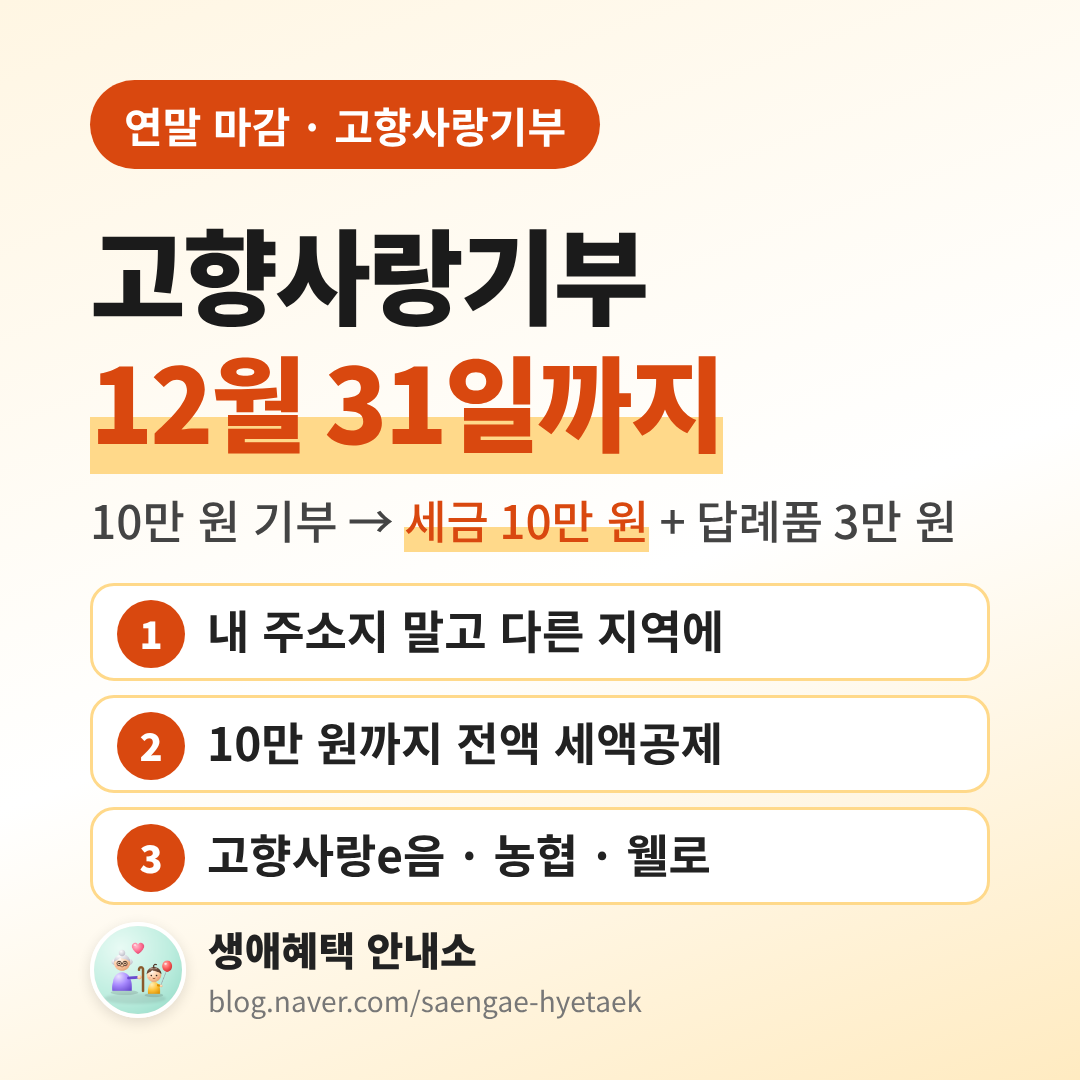
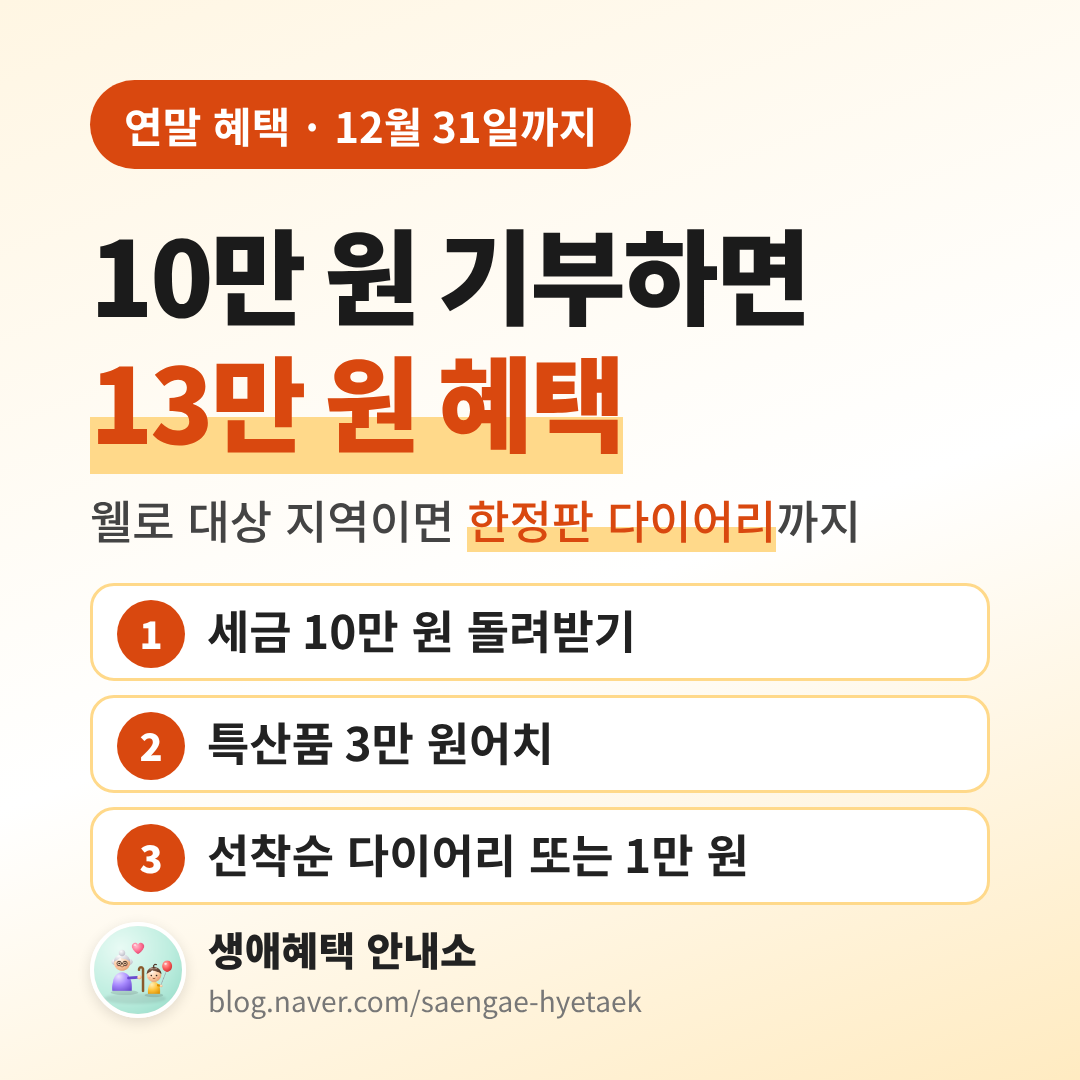
고향사랑기부 글: 받는 것 중심으로 다시 쓰기, 웰로 대상 지역 34곳 표 추가
Claude-Session: https://claude.ai/code/session_01Nk3GpNNQZnzWTp8rDB2GKq

diff --git a/blog/2026-11-24-고향사랑기부-연말정산-사진/원고-11-24-고향사랑기부-연말정산.html b/blog/2026-11-24-고향사랑기부-연말정산-사진/원고-11-24-고향사랑기부-연말정산.html
@@ -1,52 +1,66 @@
-<!DOCTYPE html><html lang="ko"><head><meta charset="utf-8"><title>고향사랑기부 연말정산 12월 31일까지, 10만 원 기부하면 얼마 돌려받나 (2026 세액공제·답례품·기부하는 곳)</title></head><body>
-<p id="t">고향사랑기부 연말정산 12월 31일까지, 10만 원 기부하면 얼마 돌려받나 (2026 세액공제·답례품·기부하는 곳)</p>
+<!DOCTYPE html><html lang="ko"><head><meta charset="utf-8"><title>고향사랑기부 10만 원 하면 13만 원 혜택에 한정판 다이어리까지? 연말 받을 것 총정리 (12월 31일까지)</title></head><body>
+<p id="t">고향사랑기부 10만 원 하면 13만 원 혜택에 한정판 다이어리까지? 연말 받을 것 총정리 (12월 31일까지)</p>
 <div id="a">
 <p style="font-size:16px;line-height:1.9;margin:0 0 12px;text-align:left">※ 이 글의 추천 링크를 통해 기부하면 작성자에게 웰로 파트너스 수익이 지급될 수 있습니다.</p>
-<p>[ 사진 넣는 자리 · 01-고향사랑기부-연말정산-12월-31일까지.webp ]</p>
-<p style="font-size:16px;line-height:1.9;margin:0 0 12px;text-align:left">안녕하세요, 생애혜택 안내인입니다. 고향사랑기부는 내가 사는 곳이 아닌 다른 지역에 기부하고, 연말정산 때 세금을 돌려받고, 그 지역 특산품까지 받는 제도예요. 10만 원을 기부하면 세금 10만 원을 그대로 돌려받고, 3만 원어치 답례품을 받을 수 있어요. 작년 정부 안내처럼 12월 31일까지 기부한 금액이 그해 연말정산에 들어가요. (2026년 11월 23일 정책브리핑 기준으로 확인했어요)</p>
+<p>[ 사진 넣는 자리 · 01-고향사랑기부-10만원-13만원-혜택-한정판-다이어리.webp ]</p>
+<p style="font-size:16px;line-height:1.9;margin:0 0 12px;text-align:left">안녕하세요, 생애혜택 안내인입니다. 연말에 10만 원으로 챙길 수 있는 게 생각보다 많아요. 고향사랑기부를 하면 세금 10만 원을 그대로 돌려받고, 3만 원어치 지역 특산품을 받고, 지금은 웰로에서 대상 지역에 기부하면 2027년 한정판 다이어리나 웰포인트 1만 원까지 하나 더 받을 수 있어요. 올해 연말정산에 넣으려면 12월 안에 끝내야 해요. (2026년 11월 23일, 정책브리핑과 웰로 안내로 확인했어요)</p>
 <p><br></p>
-<p style="font-size:16px;line-height:1.9;margin:0 0 12px;text-align:left"><b style="font-size:18px;color:#D9480F">✅ 한눈에 정리</b></p>
-<p style="font-size:16px;line-height:1.9;margin:0 0 12px;text-align:left">· 내 주소지가 아닌 지역에 기부하면 돼요</p>
-<p style="font-size:16px;line-height:1.9;margin:0 0 12px;text-align:left">· 10만 원까지는 기부한 돈 전액을 세금에서 빼 줘요</p>
-<p style="font-size:16px;line-height:1.9;margin:0 0 12px;text-align:left">· 2026년 1월 1일부터 10만 원 넘고 20만 원까지의 부분은 44%를 돌려받아요 (16.5%에서 올랐어요)</p>
-<p style="font-size:16px;line-height:1.9;margin:0 0 12px;text-align:left">· 답례품은 기부금의 30% 이내 — 10만 원이면 3만 원어치</p>
-<p style="font-size:16px;line-height:1.9;margin:0 0 12px;text-align:left">· 기부하는 곳: 고향사랑e음, 농협은행 지점, 웰로 같은 민간 플랫폼</p>
+<p style="font-size:16px;line-height:1.9;margin:0 0 12px;text-align:left"><b style="font-size:19px;color:#D9480F">✅ 한눈에 정리 — 10만 원 기부하면 받는 것</b></p>
+<p style="font-size:16px;line-height:1.9;margin:0 0 12px;text-align:left">· ① 세금 10만 원 돌려받기 (연말정산 세액공제, 10만 원까지 전액)</p>
+<p style="font-size:16px;line-height:1.9;margin:0 0 12px;text-align:left">· ② 지역 특산품 3만 원어치 (답례품, 기부금의 30% 이내)</p>
+<p style="font-size:16px;line-height:1.9;margin:0 0 12px;text-align:left">· ③ 웰로 대상 34개 지역이면 한정판 다이어리 또는 웰포인트 1만 원 (선착순, 다 나가면 끝)</p>
+<p style="font-size:16px;line-height:1.9;margin:0 0 12px;text-align:left">· 조건은 하나: 내가 사는 곳이 아닌 지역에 기부하기</p>
+<p style="font-size:16px;line-height:1.9;margin:0 0 12px;text-align:left">· 12월 31일까지 기부한 금액이 그해 연말정산에 들어가요 (작년 정부 안내 기준)</p>
 <hr>
 <p><br></p>
-<p style="font-size:16px;line-height:1.9;margin:0 0 12px;text-align:left"><b style="font-size:19px;color:#D9480F">📌 고향사랑기부, 누가 어디에 하나요?</b></p>
-<p>[ 사진 넣는 자리 · 02-고향사랑기부-대상과-기본-규칙.webp ]</p>
-<p style="font-size:16px;line-height:1.9;margin:0 0 12px;text-align:left">내가 지금 사는 지역에는 기부할 수 없고, 그 밖의 지역 가운데 골라서 할 수 있어요. 개인은 1년에 2천만 원까지 기부할 수 있고(2025년 기준), 기부한 돈은 국세청 홈택스에 자동으로 올라가서 연말정산 때 따로 영수증을 챙기지 않아도 돼요.</p>
+<p style="font-size:16px;line-height:1.9;margin:0 0 12px;text-align:left"><b style="font-size:19px;color:#D9480F">💰 받는 것 ①② 세금 돌려받고, 특산품도 받고</b></p>
+<p>[ 사진 넣는 자리 · 02-고향사랑기부-금액별-세액공제와-답례품.webp ]</p>
+<p style="font-size:16px;line-height:1.9;margin:0 0 12px;text-align:left">10만 원을 기부하면 연말정산 때 세금 10만 원이 줄어요. 거기에 그 지역 특산품 3만 원어치를 답례품으로 받아요. 정부가 &quot;10만 원 기부하면 13만 원 혜택&quot;이라고 소개하는 이유예요.</p>
+<p style="font-size:16px;line-height:1.9;margin:0 0 12px;text-align:left">20만 원이면 더 받아요. 앞의 10만 원은 전액, 뒤의 10만 원은 44%를 돌려받아 세금이 14만 4천 원 줄고, 답례품은 6만 원어치까지 고를 수 있어요. 이 44%는 2026년 1월 1일부터 16.5%에서 올라간 기준이에요(행정안전부). 단, 올해 낼 세금(결정세액)이 없으면 세액공제를 받을 수 없고 다음 해로 넘어가지도 않아요(웰로 안내).</p>
 <hr>
 <p><br></p>
-<p style="font-size:16px;line-height:1.9;margin:0 0 12px;text-align:left"><b style="font-size:19px;color:#D9480F">💰 얼마 돌려받나요? (2026년)</b></p>
-<p>[ 사진 넣는 자리 · 03-고향사랑기부-금액별-세액공제와-답례품.webp ]</p>
-<p style="font-size:16px;line-height:1.9;margin:0 0 12px;text-align:left">나라면 얼마나 돌려받을지 예로 볼게요. 10만 원을 기부하면 연말정산 때 세금 10만 원이 줄고, 3만 원어치 답례품을 받아요. 그래서 &quot;10만 원 내고 13만 원 혜택&quot;이라고 해요.</p>
-<p style="font-size:16px;line-height:1.9;margin:0 0 12px;text-align:left">20만 원을 기부하면 앞의 10만 원은 전액, 뒤의 10만 원은 44%인 4만 4천 원을 돌려받아요. 이 44%는 2026년 1월 1일부터 바뀐 기준이에요(행정안전부 &#x27;2026년 달라지는 제도&#x27;). 세금 14만 4천 원이 줄고 답례품은 6만 원어치까지예요. 20만 원이 넘는 부분의 비율은 이 글에서 다루지 않았어요.</p>
+<p style="font-size:16px;line-height:1.9;margin:0 0 12px;text-align:left"><b style="font-size:19px;color:#D9480F">🎁 받는 것 ③ 웰로 연말 한정 선물 (지금 진행 중)</b></p>
+<p>[ 사진 넣는 자리 · 03-웰로-고향사랑기부-연말-한정-선물-조건.webp ]</p>
+<p style="font-size:16px;line-height:1.9;margin:0 0 12px;text-align:left">웰로에서 아래 34개 대상 지역 가운데 한 곳에 10만 원 이상 기부하면, 2027년 한정판 다이어리(2만 원 상당)나 웰포인트 1만 원 중 하나를 더 받을 수 있어요. 11월 2일에 시작했고 정해진 수량이 다 나가면 끝나는 선착순이에요.</p>
+<p style="font-size:16px;line-height:1.9;margin:0 0 12px;text-align:left">친구 초대도 있어요. 초대받은 친구가 7일 안에 10만 원을 기부하면 두 사람 모두 웰포인트 1천 원씩 받아요. 웰포인트는 네이버페이·편의점·다이소 쿠폰 등으로 바꿔 쓸 수 있어요(웰로 안내).</p>
 <hr>
 <p><br></p>
-<p style="font-size:16px;line-height:1.9;margin:0 0 12px;text-align:left"><b style="font-size:19px;color:#D9480F">📝 어디서 기부하나요?</b></p>
-<p>[ 사진 넣는 자리 · 04-고향사랑기부-하는-곳-3가지.webp ]</p>
-<p style="font-size:16px;line-height:1.9;margin:0 0 12px;text-align:left">① 정부 누리집 &#x27;고향사랑e음&#x27;에서 간편인증으로 로그인 → 지역 고르기 → 금액 입력 → 답례품 고르기 순서로 해요.</p>
-<p style="font-size:16px;line-height:1.9;margin:0 0 12px;text-align:left">② 인터넷이 어려우신 부모님은 가까운 농협은행 지점에 가서 할 수 있어요.</p>
-<p style="font-size:16px;line-height:1.9;margin:0 0 12px;text-align:left">③ 웰로 같은 민간 플랫폼에서도 돼요. 행정안전부는 2025년에 농협은행·웰로·체리 민간 플랫폼이 새로 열렸다고 발표했어요.</p>
+<p style="font-size:16px;line-height:1.9;margin:0 0 12px;text-align:left"><b style="font-size:19px;color:#D9480F">📍 선물 받는 대상 지역 34곳 (웰로 안내 기준)</b></p>
+<p>[ 사진 넣는 자리 · 04-웰로-연말-선물-대상-지역-34곳.webp ]</p>
+<p style="font-size:16px;line-height:1.9;margin:0 0 12px;text-align:left">· 경남(10곳): 경상남도, 통영, 창원, 고성, 하동, 함양, 합천, 거제, 사천, 함안</p>
+<p style="font-size:16px;line-height:1.9;margin:0 0 12px;text-align:left">· 전남광주(12곳): 전남광주, 여수, 목포, 완도, 고흥, 나주, 함평, 보성, 무안, 광주 동구, 광주 남구, 광주 서구</p>
+<p style="font-size:16px;line-height:1.9;margin:0 0 12px;text-align:left">· 전북(4곳): 고창, 무주, 익산, 임실</p>
+<p style="font-size:16px;line-height:1.9;margin:0 0 12px;text-align:left">· 충청(4곳): 서천, 당진, 논산, 진천</p>
+<p style="font-size:16px;line-height:1.9;margin:0 0 12px;text-align:left">· 강원·경북(4곳): 삼척, 강릉, 횡성, 영주</p>
+<p style="font-size:16px;line-height:1.9;margin:0 0 12px;text-align:left">부모님 고향이나 다녀온 여행지가 있는지 한번 찾아보세요. 다만 내가 지금 사는 지역에는 기부할 수 없어요. 대상 지역과 남은 수량은 바뀔 수 있으니 기부 직전에 웰로 화면에서 한 번 더 확인하세요.</p>
 <hr>
 <p><br></p>
-<p style="font-size:16px;line-height:1.9;margin:0 0 12px;text-align:left"><b style="font-size:19px;color:#D9480F">🎁 웰로 연말 이벤트 (웰로 안내 기준)</b></p>
-<p>[ 사진 넣는 자리 · 05-웰로-고향사랑기부-연말-이벤트-조건.webp ]</p>
-<p style="font-size:16px;line-height:1.9;margin:0 0 12px;text-align:left">웰로에서는 연말에 따로 이벤트를 하고 있어요. 대상 지역에 10만 원 이상 기부하면 2027년 한정판 다이어리나 웰포인트 1만 원 중 하나를 받을 수 있어요(11월 2일부터, 다 나가면 끝). 친구를 초대해서 친구가 7일 안에 10만 원을 기부하면 두 사람 모두 웰포인트 1천 원을 받아요. 모든 지역이 이벤트 대상은 아니니, 대상 지역과 남은 수량은 기부 전에 웰로에서 꼭 확인하세요.</p>
+<p style="font-size:16px;line-height:1.9;margin:0 0 12px;text-align:left"><b style="font-size:19px;color:#D9480F">📝 기부는 이렇게 해요</b></p>
+<p>[ 사진 넣는 자리 · 05-고향사랑기부-하는-곳-3가지.webp ]</p>
+<p style="font-size:16px;line-height:1.9;margin:0 0 12px;text-align:left">① 정부 누리집 &#x27;고향사랑e음&#x27;: 로그인 → 지역 고르기 → 금액 입력 → 답례품 고르기</p>
+<p style="font-size:16px;line-height:1.9;margin:0 0 12px;text-align:left">② 인터넷이 어려우신 부모님: 가까운 농협은행 지점에 가서 할 수 있어요</p>
+<p style="font-size:16px;line-height:1.9;margin:0 0 12px;text-align:left">③ 웰로: 답례품을 고르고 기부 → 본인인증 후 주소지·금액·배송지 확인 → 기부 내역과 배송을 웰로에서 확인. 연말 한정 선물은 웰로 이벤트예요.</p>
+<p style="font-size:16px;line-height:1.9;margin:0 0 12px;text-align:left">기부한 돈은 국세청 홈택스에 자동으로 올라가서 연말정산 때 영수증을 따로 챙기지 않아도 돼요. 1년에 기부할 수 있는 돈은 개인 2천만 원까지예요(2025년 기준).</p>
+<hr>
+<p><br></p>
+<p style="font-size:16px;line-height:1.9;margin:0 0 12px;text-align:left"><b style="font-size:19px;color:#D9480F">📌 꼭 알아 둘 기본 규칙</b></p>
+<p>[ 사진 넣는 자리 · 06-고향사랑기부-대상과-기본-규칙.webp ]</p>
+<p style="font-size:16px;line-height:1.9;margin:0 0 12px;text-align:left">내 주소지가 아닌 지역이면 골라서 기부할 수 있고, 답례품은 기부금의 30% 안에서 그 지역 특산품으로 받아요. 답례품을 받지 않겠다고 고를 수도 있어요.</p>
 <hr>
 <p><br></p>
 <p style="font-size:16px;line-height:1.9;margin:0 0 12px;text-align:left"><b style="font-size:19px;color:#D9480F">❓ 자주 묻는 질문</b></p>
 <p style="font-size:16px;line-height:1.9;margin:0 0 12px;text-align:left">Q. 부모님 고향이 지금 제가 사는 곳이에요.</p>
 <p style="font-size:16px;line-height:1.9;margin:0 0 12px;text-align:left">A. 내 주소지에는 기부할 수 없어요. 다른 지역을 골라 주세요.</p>
+<p style="font-size:16px;line-height:1.9;margin:0 0 12px;text-align:left">Q. 다이어리는 누구나 받나요?</p>
+<p style="font-size:16px;line-height:1.9;margin:0 0 12px;text-align:left">A. 아니요. 웰로에서 34개 대상 지역에 10만 원 이상 기부한 분 가운데 선착순이에요. 다 나가면 끝나요.</p>
 <p style="font-size:16px;line-height:1.9;margin:0 0 12px;text-align:left">Q. 연말정산 서류를 따로 내야 하나요?</p>
 <p style="font-size:16px;line-height:1.9;margin:0 0 12px;text-align:left">A. 아니요. 기부 내역이 홈택스에 자동으로 올라가요.</p>
-<p style="font-size:16px;line-height:1.9;margin:0 0 12px;text-align:left">Q. 답례품을 안 받아도 되나요?</p>
-<p style="font-size:16px;line-height:1.9;margin:0 0 12px;text-align:left">A. 네. 기부할 때 &#x27;답례품 제공 받지 않음&#x27;을 고를 수 있어요.</p>
+<p style="font-size:16px;line-height:1.9;margin:0 0 12px;text-align:left">Q. 소득이 없는 부모님도 세금을 돌려받나요?</p>
+<p style="font-size:16px;line-height:1.9;margin:0 0 12px;text-align:left">A. 올해 낼 세금이 없으면 세액공제는 받을 수 없어요(웰로 안내). 이런 경우엔 세금을 내는 가족이 자기 이름으로 기부하는 게 맞아요.</p>
 <hr>
-<p style="font-size:16px;line-height:1.9;margin:0 0 12px;text-align:left">👉 웰로에서 고향사랑기부 하기 (지역·답례품·이벤트 확인)</p>
+<p style="font-size:16px;line-height:1.9;margin:0 0 12px;text-align:left">👉 웰로에서 대상 지역·답례품·연말 선물 확인하고 기부하기</p>
 <p style="font-size:16px;line-height:1.9;margin:0 0 12px;text-align:left"><a href="https://www.welfarehello.com/r/N3VGEF">https://www.welfarehello.com/r/N3VGEF</a></p>
-<p style="font-size:16px;line-height:1.9;margin:0 0 12px;text-align:left">👉 정부 누리집 고향사랑e음에서 하기</p>
+<p style="font-size:16px;line-height:1.9;margin:0 0 12px;text-align:left">👉 정부 누리집 고향사랑e음에서 기부하기</p>
 <p style="font-size:16px;line-height:1.9;margin:0 0 12px;text-align:left"><a href="https://ilovegohyang.go.kr">https://ilovegohyang.go.kr</a></p>
 <hr>
 <p><br></p>
@@ -59,8 +73,8 @@
 <p style="font-size:16px;line-height:1.9;margin:0 0 12px;text-align:left">▶ 생애혜택 안내소는 이런 블로그예요 (월 지원금 · 수 디지털 · 금 재취업)</p>
 <p style="font-size:16px;line-height:1.9;margin:0 0 12px;text-align:left"><a href="https://blog.naver.com/saengae-hyetaek/224460370661">https://blog.naver.com/saengae-hyetaek/224460370661</a></p>
 <hr>
-<p style="font-size:16px;line-height:1.9;margin:0 0 12px;text-align:left">행정안전부 고향사랑기부 안내(정책브리핑 2025.12, 2026.11)와 웰로 이벤트 안내를 바탕으로 정리했어요. 내 경우 정확히 얼마가 돌아오는지는 연말정산 때 홈택스에서 확인하세요. 도움이 되셨다면 공감과 이웃 추가 부탁드려요. 😊</p>
+<p style="font-size:16px;line-height:1.9;margin:0 0 12px;text-align:left">행정안전부 고향사랑기부 안내(정책브리핑 2025.12~2026.11)와 웰로 연말 이벤트 안내(2026.11.23 확인)를 바탕으로 정리했어요. 이벤트 수량과 대상 지역은 바뀔 수 있으니 기부 전에 꼭 확인하세요. 도움이 되셨다면 공감과 이웃 추가, 부모님께 공유 부탁드려요. 😊</p>
 </div>
 <hr>
-<p id="g">#고향사랑기부 #고향사랑기부제 #고향사랑기부세액공제 #고향사랑기부답례품 #연말정산 #웰로 #고향사랑e음 #세액공제 #부모님고향 #생애혜택안내소</p>
+<p id="g">#고향사랑기부 #고향사랑기부제 #고향사랑기부답례품 #고향사랑기부세액공제 #연말정산 #웰로 #웰로이벤트 #고향사랑e음 #연말혜택 #생애혜택안내소</p>
 </body></html>
